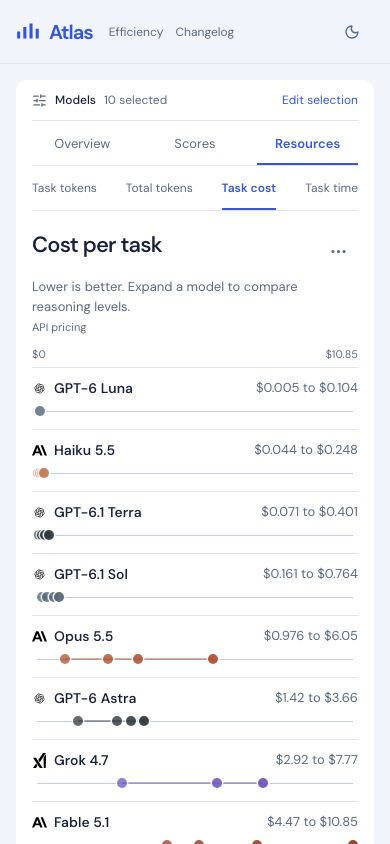
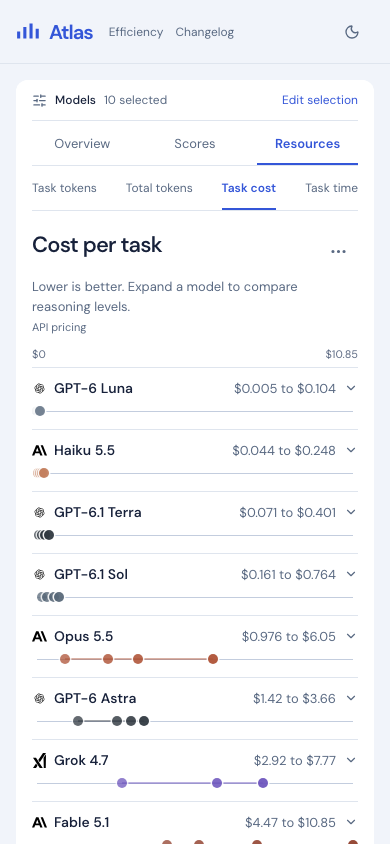
fix: fit compact navigation and label chart controls accurately

diff --git a/tests/browser/ui-quality.spec.ts b/tests/browser/ui-quality.spec.ts
@@ -164,3 +164,42 @@ test('efficient frontier leaves selected model names and controls fully opaque',
   const opacity = await rows.evaluateAll((buttons) => buttons.map((button) => getComputedStyle(button).opacity));
   expect(opacity.every((value) => value === '1')).toBe(true);
 });
+
+
+test('desktop chart navigation fits at the compact layout boundary', async ({ page }) => {
+  for (const width of [901, 920, 940, 960, 1280]) {
+    await page.setViewportSize({ width, height: 900 });
+    await page.goto('/');
+    const navigation = page.getByRole('navigation', { name: 'Chart views' });
+    await expect(navigation.getByRole('button')).toHaveCount(7);
+    const bounds = await navigation.boundingBox();
+    const buttons = await navigation.getByRole('button').evaluateAll((elements) => elements.map((element) => ({
+      left: element.getBoundingClientRect().left, right: element.getBoundingClientRect().right,
+    })));
+    for (const button of buttons) {
+      expect(button.left).toBeGreaterThanOrEqual(bounds!.x - 0.5);
+      expect(button.right).toBeLessThanOrEqual(bounds!.x + bounds!.width + 0.5);
+    }
+    expect(await page.evaluate(() => document.documentElement.scrollWidth <= innerWidth)).toBe(true);
+  }
+});
+
+test('Task tokens names its actual dense table view when switching from scatter', async ({ page }) => {
+  await page.goto('/?chart=tokens-task&scatter=true');
+  const type = page.getByRole('group', { name: 'Tokens per task view type' });
+  await type.getByRole('button', { name: 'Table', exact: true }).click();
+  await expect(type.getByRole('button', { name: 'Table', exact: true })).toHaveAttribute('aria-pressed', 'true');
+  await expect(page.locator('#tokens-task .measurement-table')).toBeVisible();
+  await expect(page.locator('#tokens-task svg[role=group]')).toHaveCount(0);
+});
+
+test('phone range rows show an expansion indicator and reveal reasoning values', async ({ page }) => {
+  await page.setViewportSize({ width: 390, height: 844 });
+  await page.goto('/?chart=intelligence&selected=gpt-6-1-sol');
+  const row = page.locator('#intelligence button[aria-expanded]').first();
+  await expect(row.locator('[data-expand-indicator]')).toBeVisible();
+  await expect(row).toHaveAttribute('aria-expanded', 'false');
+  await row.click();
+  await expect(row).toHaveAttribute('aria-expanded', 'true');
+  await expect(page.locator(`#${await row.getAttribute('aria-controls')}`)).toBeVisible();
+});

diff --git a/src/App.tsx b/src/App.tsx
@@ -194,6 +194,8 @@ function Benchmarks() {
               const subscription = usesSubscriptionPricing(view.id, settings);
               const chartRows = rowsByView.get(view.id)!;
               const ranking = rankingPresentation(chartRows, view, settings, phone, chartWidth);
+              const nonScatterRanking = scatter && view.mode === 'optional-scatter'
+                ? rankingPresentation(chartRows, view, { ...settings, scatter: false }, phone, chartWidth) : ranking;
               const hasFallback = !(scatter && settings.frontier) && chartRows.some((row) => row.cost !== null && row.taskPricing?.basis === 'api-fallback');
               return (
                 <section
@@ -245,14 +247,14 @@ function Benchmarks() {
                         <div
                           className="flex gap-1 rounded-md bg-surface p-1"
                           role="group"
-                          aria-label="Tokens per task chart type"
+                          aria-label="Tokens per task view type"
                         >
                           <button
                             className="min-h-8 rounded-sm px-2.5 text-[12px] text-fg-2 aria-pressed:bg-panel aria-pressed:font-medium aria-pressed:text-accent"
                             aria-pressed={!settings.scatter}
                             onClick={() => update({ scatter: false })}
                           >
-                            Bars
+                            {nonScatterRanking.dense ? 'Table' : phone ? 'Ranges' : 'Bars'}
                           </button>
                           <button
                             className="min-h-8 rounded-sm px-2.5 text-[12px] text-fg-2 aria-pressed:bg-panel aria-pressed:font-medium aria-pressed:text-accent"

diff --git a/src/charts/DotPlot.tsx b/src/charts/DotPlot.tsx
@@ -1,5 +1,6 @@
 import { PricingDetails } from './PricingDetails';
 import { memo, useMemo } from 'react';
+import { ChevronDown } from 'lucide-react';
 import { Logo } from '../Logo';
 import { modelColor, shortName } from '../model-presentation';
 import { format, formatModelValue } from '../formatModel';
@@ -53,10 +54,11 @@ export const DotPlot = memo(function DotPlot({
                   {shortName(model)}{metric === 'cost' && model.taskPricing?.basis === 'api-fallback' && ' · API'}
                 </span>
               </span>
-              <span className="text-[13px] text-fg-2 tabular-nums">
+              <span className="flex items-center gap-2 text-[13px] text-fg-2 tabular-nums">
                 {metric === 'time' && model.timeEstimate && '~'}
                 {format(minimum, metric)}
                 {minimum !== group.maximum && ` to ${format(group.maximum, metric)}`}
+                <ChevronDown data-expand-indicator size={14} aria-hidden="true" className="shrink-0" style={{ transform: open ? 'rotate(180deg)' : undefined }} />
               </span>
               <span
                 className="relative col-span-full mx-[5px] h-3 [background:linear-gradient(var(--line-2),var(--line-2))_center/100%_1px_no-repeat]"

diff --git a/src/Charts.test.tsx b/src/Charts.test.tsx
@@ -33,7 +33,7 @@ it.each([true, false])('shows the existing empty state for range charts, phone=%
     expect(markup).toContain('No models to display');
     expect(markup).toContain('Choose models in the model filters or enable more reasoning levels.');
     expect(markup).not.toContain('phone:invisible');
-    expect(markup).not.toContain('<svg');
+    expect(markup).not.toMatch(/<svg[^>]*role="group"/);
     expect(markup).not.toContain('tabular-nums');
   }
 });
@@ -41,7 +41,7 @@ it.each([true, false])('shows the existing empty state for range charts, phone=%
 it('keeps populated phone ranges without mounting the desktop chart', () => {
   const markup = renderChart([{ ...models[0]!, intelligence: 42 }], true);
   expect(markup).toContain('aria-expanded="false"');
-  expect(markup).not.toContain('<svg');
+  expect(markup).not.toMatch(/<svg[^>]*role="group"/);
   expect(markup).not.toContain('No models to display');
 });
 

diff --git a/src/styles.css b/src/styles.css
@@ -386,3 +386,7 @@
 @media (width < 380px) {
   .efficiency-thresholds { grid-template-columns:repeat(2,minmax(0,1fr)); }
 }
+
+@media (900px < width <= 940px) {
+  .chart-navigation-desktop { gap: 4px; }
+}
